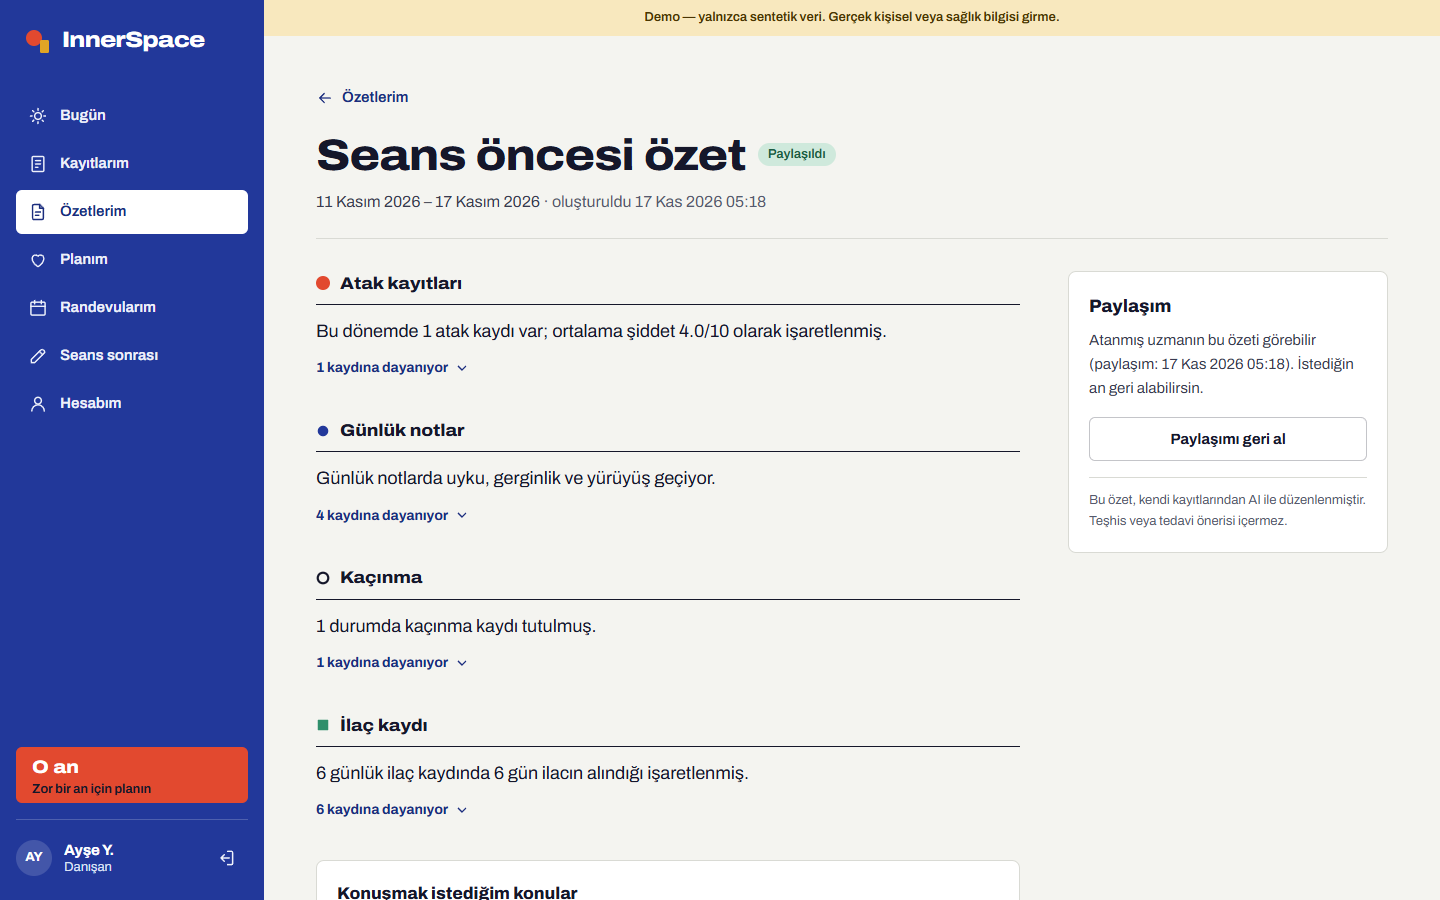
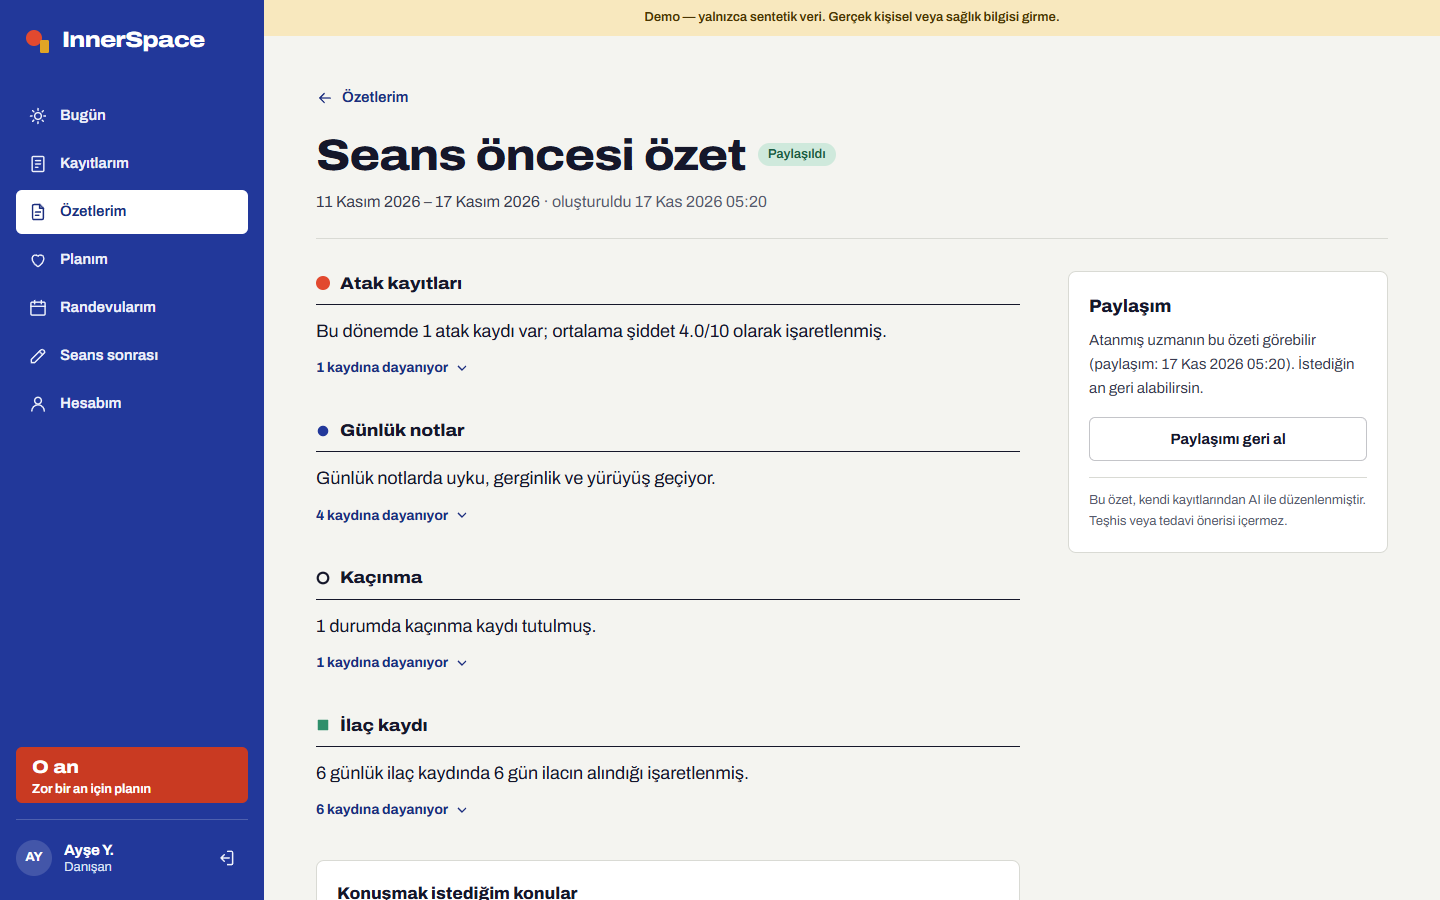
fix(frontend): O an button text meets AA contrast (#c93a22 ground, white text)

Changed region(s): [[0.0, 0.8089, 0.1875, 0.9022], [0.9062, 0.3733, 0.9375, 0.4356], [0.5, 0.2178, 0.5312, 0.2489]]

diff --git a/frontend/src/components/Layout.tsx b/frontend/src/components/Layout.tsx
@@ -93,10 +93,10 @@ function MomentButton({ withHint = false, className = '' }: { withHint?: boolean
     <Link
       to="/client/moment"
       aria-label="O an: zor bir an için planın"
-      className={`btn inline-flex min-h-11 flex-col items-start justify-center rounded-soft bg-attack px-4 py-1.5 leading-tight hover:brightness-95 ${className}`}
+      className={`btn inline-flex min-h-11 flex-col items-start justify-center rounded-soft bg-danger-600 px-4 py-1.5 leading-tight hover:bg-danger-700 ${className}`}
     >
       <span className="text-lg font-extrabold text-white [font-stretch:115%]">O an</span>
-      {withHint && <span className="text-[0.8125rem] font-semibold text-ink">Zor bir an için planın</span>}
+      {withHint && <span className="text-[0.8125rem] font-semibold text-white">Zor bir an için planın</span>}
     </Link>
   )
 }
